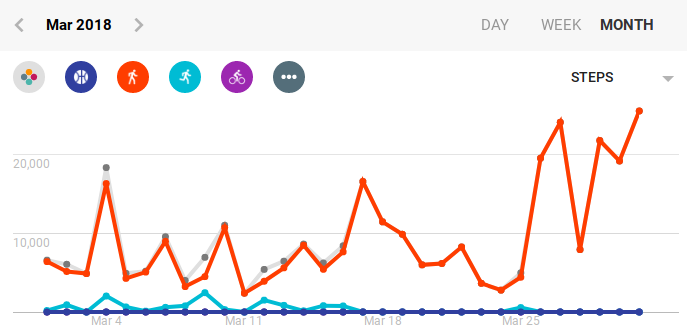
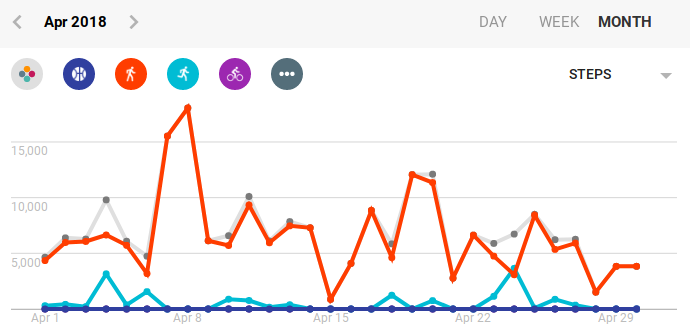
Add content for April's post.
Still work in progress but almost there

diff --git a/content/post/stats-apr-2018.md b/content/post/stats-apr-2018.md
@@ -11,18 +11,12 @@ It's time for April metrics! 📊
 
 **Note**: I write a review for each book I read. You can find them on [my Goodreads account](https://goodreads.com/pothix).
 
-Just one book this month, but a 5 stars one:
+Again, just one book this month, and again, a 5 stars one!
 
 [![List of books read this month](/images/stats/2018/apr/goodreads.png "List of books read this month")](https://www.goodreads.com/pothix
 "")
 
-[When: The Scientific Secrets of Perfect
-Timing](https://amzn.to/2v3yIBB). This book is about optimization
-based on time and energy. What is the best time to do some action
-based on statistics? I found it to be amazing and could confirm
-many of the assumptions with my data. I would recommend everyone
-who likes to improve their performance to read this book and draw
-their conclusions.
+[A Guide to the Good Life: The Ancient Art of Stoic Joy](https://amzn.to/2KgEAKE). This book was in my reading list for many months now. After reading it, I realized I'm practicing a fraction of Stoicism for many years. [Here is my review](https://www.goodreads.com/review/show/2355647662) if you want to read my thoughts on it.
 
 ### Articles
 
@@ -45,13 +39,18 @@ console.log("# Result: " + JSON.stringify(pocket))
 # Result: {"unread":1501,"unread_pct":3.66,"read":1096,"read_pct":4.2}
 ```
 
-It means I have **1446 articles unread** and **1050 articles
-read**. Comparing with my results from the last month (**1420 unread**
-and **1020 read**), I got around **1.8% more unread articles** and **2.8%
-more read articles**.
+It means I have **1501 articles unread** and **1096 articles
+read**. Comparing with my results from the last month (**1446 unread**
+and **1050 read**), I got around **3.6% more unread articles** and
+**4.2% more read articles**.
 
-The percentages are better this month, and this is a good thing. I'm
-happy to see that I read 30 articles this month. 🙂
+Well, I'm reading more than adding but I don't know if I'm happy with
+this situation. It's been some months since I'm complaining about my
+_read it later_ but it doesn't seem like a big problem.
+
+I'm experimenting with an integration between [Pocket + Google Sheets
+via IFTTT](https://ifttt.com/p/pothix). The idea is to count the
+number of articles read, maybe we will have something new next month.
 
 ### Coding
 
@@ -60,26 +59,24 @@ since the last post. I will start with editors this time:
 
 [![Editors used during this month on Wakatime](/images/stats/2018/apr/wakatime-editors.png "Editors used during this month on Wakatime")](https://wakatime.com/@PotHix "")
 
-Vim and Emacs usage following the same patterns.
+Nothing new here, 70-30 between Vim and Emacs.
 
 [![Hours of coding on Wakatime this month](/images/stats/2018/apr/wakatime-coding.png "Hours of coding on Wakatime this month")](https://wakatime.com/@PotHix "")
 
-This month was a very particular one since I had the [Doist
-retreat](https://twitter.com/amix3k/status/977808357376626689) (an
-AMAZING experience which deserves a post) and one week vacation. Not
-so much coding done.
+I had some national holidays + days off this month. Also, I had some
+non-coding tasks (mostly writing) and it obviously impacted my hours
+of coding.
 
 [![Languages used during this month on Wakatime](/images/stats/2018/apr/wakatime-languages.png "Languages used during this month on Wakatime")](https://wakatime.com/@PotHix "")
 
-`Python` is my first language but I had some `Ruby` as
-well. Unfortunately, there's no mention of `Rust` or `Elixir` this
-month. 😞
+`Python`, `Markdown`, and `Ruby` are the most used languages, as
+usual. Unfortunately, there's no mention of `Rust` or `Elixir` this
+month, but at least I have a small percentage of `Golang`.
 
 ### Speaking
 
-No speaking this month but I helped organize a workshop about agile
-methodologies and how it could help our work at Doist. It was an
-excellent experience.
+Again, no speaking this month. I was thinking about it and I think it
+is a hangover from the 21 presentations from last year.
 
 ### Completed tasks
 
@@ -87,10 +84,10 @@ Here is the comparison of the tasks for the last month (first) and the
 tasks for this month (second). I extracted it from
 [Todoist](https://todoist.com).
 
-[![Amount of tasks completed last month](/images/stats/2018/feb/tasks-completed.png "Amount of tasks completed last month")](/images/stats/2018/feb/tasks-completed.png)
+[![Amount of tasks completed last month](/images/stats/2018/mar/tasks-completed.png "Amount of tasks completed last month")](/images/stats/2018/mar/tasks-completed.png)
 [![Amount of tasks completed this month](/images/stats/2018/apr/tasks-completed.png "Amount of tasks completed this month")](/images/stats/2018/apr/tasks-completed.png)
 
-Almost 190 tasks in the week I returned to work. 😅
+Things are back to normal, I guess. 🙃
 
 ### Podcasts
 
@@ -99,8 +96,9 @@ Here is my
 
 [![Amount of time spent listening to Podcasts this month](/images/stats/2018/apr/podcasts.jpg "Amount of time spent listening to Podcasts this month")](/images/stats/2018/apr/podcasts.jpg)
 
-**3 days** of podcast time is above average for me. As usual, here is
-the list of Podcasts and their times:
+**3 days and 6 hours** of podcast time. It seems that 3 days is
+becoming average for me. As usual, here is the list of Podcasts and
+their times:
 
 [![Amount of time spent listening to Podcasts, ordered by title](/images/stats/2018/apr/podcast_titles.jpg "Amount of time spent listening to Podcasts, ordered by the title")](/images/stats/2018/apr/podcast_titles.jpg)
 
@@ -116,15 +114,13 @@ Here is the data from my time tracking software,
 [Toggl](https://toggl.com) comparing the last month (first) and this
 month (second):
 
-[![Hours working using Toggl last month](/images/stats/2018/feb/toggl-time-working.png "Hours working using Toggl last month")](/images/stats/2018/feb/toggl-time-working.png "")
+[![Hours working using Toggl last month](/images/stats/2018/mar/toggl-time-working.png "Hours working using Toggl last month")](/images/stats/2018/mar/toggl-time-working.png "")
 
 [![Hours working using Toggl](/images/stats/2018/apr/toggl-time-working.png "Hours working using Toggl")](/images/stats/2018/apr/toggl-time-working.png "")
 
-It seems quite stable this month.
-
-I had 12 tracked working days this month, and I worked for 107 hours,
-which mean that **I worked 11 hours more than I should** (it was also 11 in
-the last month with more days tracked 😞).
+I had 19 work days tracked this month, and I worked for 157 hours,
+which mean that **I worked 5 hours more than I should** (it was 11 in
+the last month, so it's improving! 😀).
 
 Let's check Deep work versus Shallow work:
 
@@ -132,58 +128,66 @@ Let's check Deep work versus Shallow work:
 
 What I can take from this chart:
 
-* I had more meetings than usual, but it's not too bad
-* Shallow work is still 55% (better than 64% from February)
+* Meetings are stable (and productive), considering two 1-1 meetings
+  (1 hour each) and 4 weekly meetings (around 40 minutes each)
 * The Shallow work task (the most generic I have) is still the big
-  black box. I'm trying not to split the tracking too much, or it will
-  be too much work to manage it. Maybe it will be useful to
-  separate lunchtime and other typical things just to check the time
-  slacking.
+  black box. I mentioned to split lunch times (lunch and break) but
+  forgot to do that last month. Maybe I will start doing it this
+  month (from April 15th).
 
-"Read/Reply Twist" is still consuming a lot of time, almost 2 hours
-every day. I'm still fighting to implement my process of checking it
-in the morning, add tasks and just review in the afternoon. I should
-probably avoid doing it in the morning, but it's still hard for me.
+"Read/Reply Twist" is still consuming a lot of time, more than 2 hours
+every day. Let's break Twist usage down by hour:
+
+[![Twist usage by time of the day](/images/stats/2018/apr/rescuetime-twist-time-by-hour.png "Twist usage by time of the day")](/images/stats/2018/apr/rescuetime-twist-time-by-hour.png "")
+
+It seems that my strategy of reading Twist in the morning is working
+but it's not fixing the problem of keep looking to it throughout the
+day. I should probably just skim it in the morning and get back to it
+at the end of the day. Still trying to improve this process though.
 
 Now, let's continue to my personal projects, last month first and this
 month last:
 
-[![Hours working on personal projects using Toggl](/images/stats/2018/feb/toggl-time-personal-projects.png "Hours working on personal projects using Toggl")](/images/stats/2018/feb/toggl-time-personal-projects.png "")
+[![Hours working on personal projects using Toggl](/images/stats/2018/mar/toggl-time-personal-projects.png "Hours working on personal projects using Toggl")](/images/stats/2018/mar/toggl-time-personal-projects.png "")
 
 [![Hours working on personal projects using Toggl](/images/stats/2018/apr/toggl-time-personal-projects.png "Hours working on personal projects using Toggl")](/images/stats/2018/apr/toggl-time-personal-projects.png "")
 
-That's not much to compare here, but at least it seems stable. 👍
+Again, that's not much to compare here, but at least it seems stable. 👍
 
 Here is my data from [RescueTime](https://www.rescuetime.com/ref/1403570):
 
 [![Goal of productive hours on RescueTime](/images/stats/2018/apr/rescuetime-productivetime.png "Goal of productive hours on RescueTime")](/images/stats/2018/apr/rescuetime-productivetime.png "")
 [![RescueTime pulse](/images/stats/2018/apr/rescuetime-pulse.png "RescueTime pulse")](/images/stats/2018/apr/rescuetime-pulse.png "")
 
-It's worst than last month 😞. I had a pulse of 62, and it's now 54. I
-can't say why it's bad, at least I could not feel anything wrong
-during the last month. Maybe it was related to the travel planning.
+It's worst than February and March 😞. I had a pulse of 62 on February and 54 on March, and it's now 43. It's concerning to see that, so I decided what was causing such different. When looking to the entertaining chart I saw this:
+
+[![RescueTime distracting chart](/images/stats/2018/apr/rescuetime-distracting.png "RescueTime distracting chart")](/images/stats/2018/apr/rescuetime-distracting.png "")
+
+It seems that my new (and old, at the same time) hobby Magic the
+Gathering is taking a lot of my spare time. I let rescuetime track
+all my time, not just working hours, and all MTG websites are
+considered as very distracting. Maybe I should configure rescuetime to
+track only "working hours" but I'm not sure what time should I use. 🤔
 
 Still following my Telegram usage, here is the comparison from the
 previous month to the current one:
 
-[![Time spend on Telegram according to Rescuetime](/images/stats/2018/feb/rescuetime-telegram-time.png "Time spent on Telegram according to RescueTime")](/images/stats/2018/feb/rescuetime-telegram-time.png "")
+[![Time spend on Telegram according to Rescuetime](/images/stats/2018/mar/rescuetime-telegram-time.png "Time spent on Telegram according to RescueTime")](/images/stats/2018/mar/rescuetime-telegram-time.png "")
 [![Time spend on Telegram according to Rescuetime](/images/stats/2018/apr/rescuetime-telegram-time.png "Time spent on Telegram according to RescueTime")](/images/stats/2018/apr/rescuetime-telegram-time.png "")
 
-It seems quite stable, let's wait for the next month.
+It's still too high for me. I have an alert of my time spent using
+Telegram. The goal is to not receive this alert but I'm currently
+failing at it. I have to improve this.
 
 I'm still trying to understand if I have a particular moment where I
 use Telegram the most, here is the difference from the last month to
 the current one:
 
-[![Time of the day I used Telegram according to Rescuetime](/images/stats/2018/feb/rescuetime-telegram-time-by-hour.png "Time of the day I used Telegram according to RescueTime")](/images/stats/2018/feb/rescuetime-telegram-time-by-hour.png "")
+[![Time of the day I used Telegram according to Rescuetime](/images/stats/2018/mar/rescuetime-telegram-time-by-hour.png "Time of the day I used Telegram according to RescueTime")](/images/stats/2018/mar/rescuetime-telegram-time-by-hour.png "")
 [![Time of the day I used Telegram according to Rescuetime](/images/stats/2018/apr/rescuetime-telegram-time-by-hour.png "Time of the day I used Telegram according to RescueTime")](/images/stats/2018/apr/rescuetime-telegram-time-by-hour.png "")
 
-Nothing outstanding but 10:00 is still the time I most use Telegram. It's not
-that good since it should be my peak time. I will have to improve my
-morning routine. 👍
-
-I've added a warning when I use Telegram for more than 30 minutes in
-the day. That is helping me to understand my usage pattern.
+Hm, Telegram is spread throughout the day, that's not a good thing. I
+have to keep working on it.
 
 ### Physical activity
 
@@ -192,12 +196,11 @@ I'm using my Mi band data to calculate my average steps:
 [![Activity data for this month by Mi-Fit app](/images/stats/2018/apr/activity.jpg "Activity data for this month by Mi-Fit app")](/images/stats/2018/apr/activity.jpg "")
 [![Activity data comparison for this month by Mi-Fit app](/images/stats/2018/apr/activity_comparison.jpg "Activity data comparison for this month by Mi-Fit app")](/images/stats/2018/apr/activity-comparison.jpg "")
 
-This month was better than the last one. **10.5k steps** compared to
-6.5k from previous month. 👍 This is expected since I had two weeks to
-move around because of the retreat and my vacation in Santiago.
+This month I have **8k steps** compared to 10.5k from previous
+month. This is expected since I had two weeks to move around because
+of the retreat and my vacation in Santiago last month.
 
-As I got back in April, it did not reflect on my weight, but the
-result will be horrible for the next month 😅:
+I was expecting a big change on my weight but it was not that bad. I'm expecting an increase next month though 😅:
 
 [![Weight this month](/images/stats/2018/apr/physical-activity-weight.png "Weight for this month")](/images/stats/2018/apr/physical-activity-weight.png "")
 
@@ -205,24 +208,22 @@ Here is my sleep data for this month:
 
 [![Amount of sleep for this month](/images/stats/2018/apr/sleep.jpg "Amount of sleep for this month")](/images/stats/2018/apr/sleep.jpg "")
 
-I was expecting a decrease this month. During the retreat I did not
-sleep that much because I was trying to enjoy every second of that
-experience.
-
-This month is an outlier of my routine, but I think it will be back
-for the next.
+Not that bad, the same as March. Hope to improve it in May. 👍
 
 
 ### TV Shows
 
-According to [tvshowtime](https://www.tvshowtime.com) I watched 3
+According to [tvshowtime](https://www.tvshowtime.com) I watched 8
 episode this month:
 
 [![TV shows watched this month according to tvshowtime](/images/stats/2018/apr/tvshows.jpg "TV shows watched this month according to tvshowtime")](/images/stats/2018/apr/tvshows.jpg "")
 
-But these are the same 3 episodes of the last month, so I did not
-watch any tv show this month. ✌
+We finished **The punisher** this month. Now looking for a new TV show
+to watch.
 
+I'm starting to try [trakt.tv](https://trakt.tv) so I can try the
+movies I watch along with the TV shows. Unfortunately, tvshowtime only
+tracks TV shows. Maybe we will have some new charts next month. 😉
 
 ### Words written and errors
 
@@ -233,38 +234,33 @@ while.
 
 Here are my stats for this month:
 
-+ **50348** words written (**72766** last month)
-+ **825** corrections made (**3451** last month)
-+ **10944** unique words (**14352** last month)
++ **61385** words written ( **50348** last month)
++ **934** corrections made (**825** last month)
++ **16473** unique words (**10944** last month)
 
-Nothing to extract from these metrics since it's different from the
-last month because of the retreat + vacations.
+It's expected to have a better value since last month had almost two
+weeks off because of Doist retreat + vacations. Nothing outstanding
+though.
 
 ### Locations
 
-Thanks to Doist I visited Chile this month! 🙃
-
-[![Countries I visited](/images/stats/2018/apr/location-countries.png "Countries I visited")](/images/stats/2018/apr/location-countries.png "")
-
-For some reason, Argentina is on the list as well. I've been there
-already but not this time. :P
-
-I had one week of vacations and decided to walk around Santiago and
-relax. Because of that, I've added many places to the list:
+I've added some places to the list:
 
 [![Places I visited](/images/stats/2018/apr/location-places.png "Places I visited")](/images/stats/2018/apr/location-places.png "")
+
+Went to two different cities this month, one of them is 450km+ from my home town. ✌
 
 Let's compare the difference between last month and this month. Last
 month first and **this month right after it**:
 
-[![General view of my locations data last month](/images/stats/2018/feb/location-general.png "General view of my locations data last month")](/images/stats/2018/feb/location-general.png "") .
+[![General view of my locations data last month](/images/stats/2018/mar/location-general.png "General view of my locations data last month")](/images/stats/2018/mar/location-general.png "") .
 [![General view of my locations data this month](/images/stats/2018/apr/location-general.png "General view of my locations data this month")](/images/stats/2018/apr/location-general.png "")
 
-One new country, 12 cities, and almost 50 more places. Quite nice. 😀
+And again, One new country according to Google. It's quite unstable to rely on their country count but I think they got it right now. The number of cities did not increase for some reason. 🤷♂
 
-It's expected to have more commuting, and walking this month:
+As expected the amount of time commuting increased a lot this month (due to the travel I mentioned above):
 
-[![Location time and distance last month](/images/stats/2018/feb/location-time-distance.png "Location time and distance last month")](/images/stats/2018/feb/location-time-distance.png "") .
+[![Location time and distance last month](/images/stats/2018/mar/location-time-distance.png "Location time and distance last month")](/images/stats/2018/mar/location-time-distance.png "") .
 [![Location time and distance this month](/images/stats/2018/apr/location-time-distance.png "Location time and distance this month")](/images/stats/2018/apr/location-time-distance.png "")
 
 Still many kilometers to "reach the moon":
@@ -273,7 +269,7 @@ Still many kilometers to "reach the moon":
 
 ### Expenses
 
-It's time to check my expenses! 💸
+It's time to check my expenses! 💰
 
 [![Expenses by category this month](/images/stats/2018/apr/expenses.jpg "Expenses by category this month")](/images/stats/2018/apr/expenses.jpg "")
 
@@ -309,10 +305,9 @@ post.
 
 ### Conclusion
 
-This was not a normal month at all, but it was really amazing. You
-can't see it in my metrics (maybe the locations 🤔) but keep in mind
-that not all parts of your life will be on your metrics and that's
-OK. I put a lot of effort to create this blog post but I also know
-when I should enjoy life and let things go.
+It was quite a common month. Some outliers were found because of my
+Magic The Gathering hobby and 20+ hours commuting because of my
+travels is not that common, but other than that, everything is just
+fine.
 
 See you next month. 🖖
